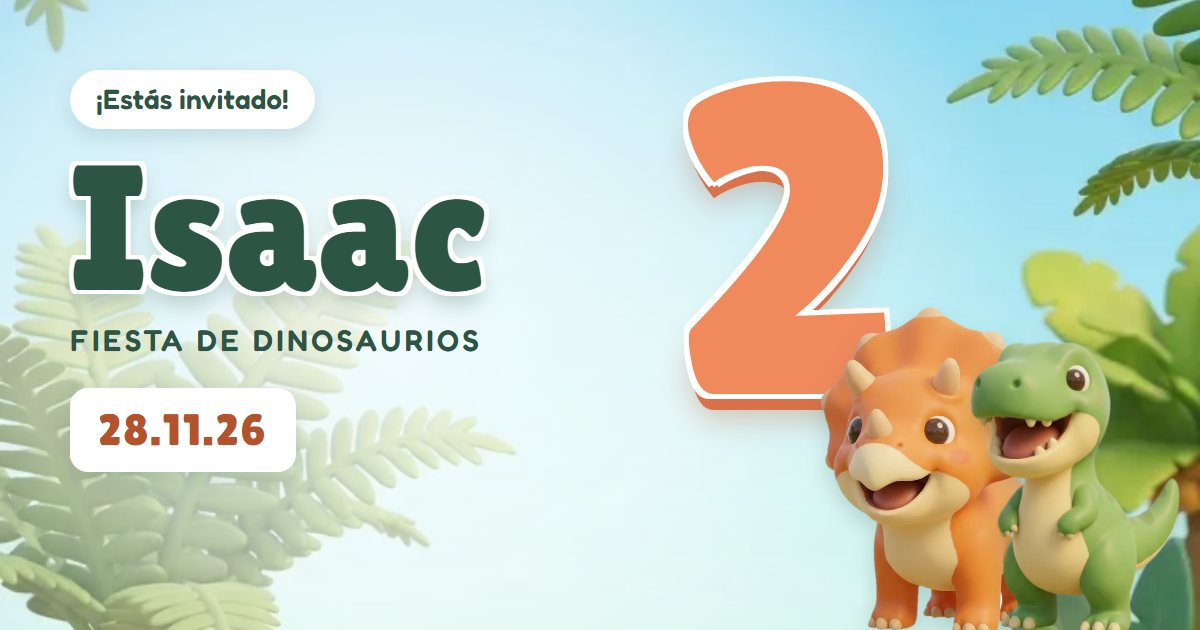
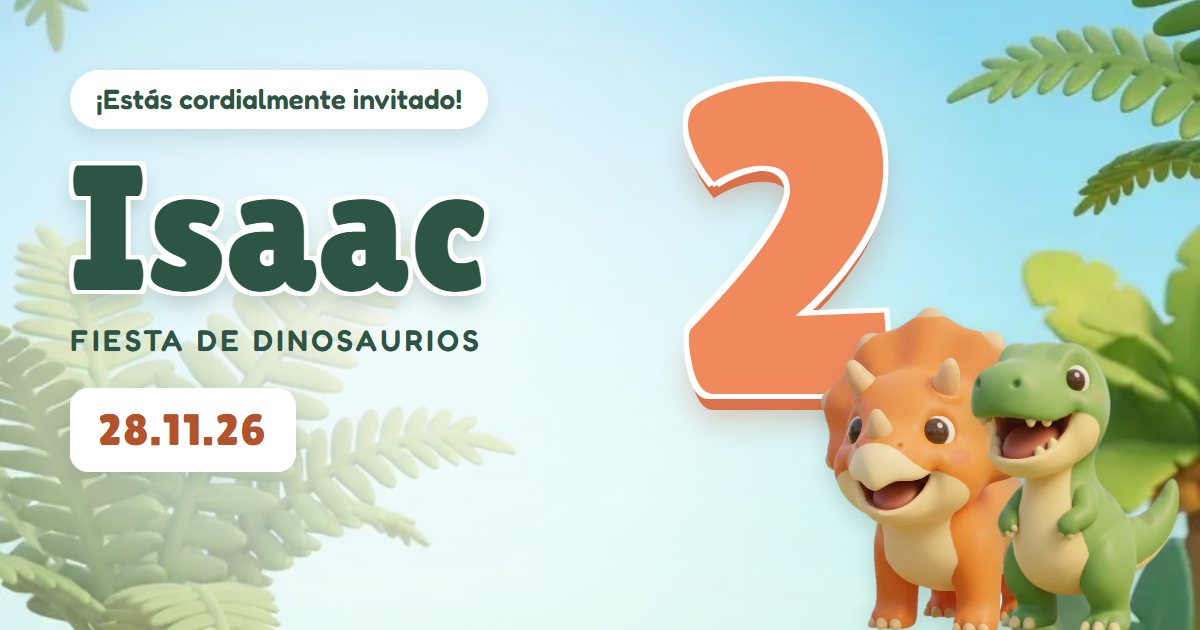
Ajuste al msm que se envia al whatsApp

Changed region(s): [[0.1542, 0.0905, 0.4317, 0.2111]]

diff --git a/index.html b/index.html
@@ -9,13 +9,19 @@
   <meta name="theme-color" content="#CDE9F7">
   <meta property="og:type" content="website">
   <meta property="og:locale" content="es_CO">
-  <meta property="og:title" content="Isaac cumple 2 años · ¡Estás cordialmente invitado!">
-  <meta property="og:description" content="Una fiesta de dinosaurios. Sábado 28 de noviembre de 2026, 5:00 p. m.">
-  <!-- TODO: cuando conozcas el dominio, cambia esta línea por la URL absoluta, p. ej. https://tudominio.com/assets/social.jpg -->
-  <meta property="og:image" content="assets/social.jpg">
+  <meta property="og:title" content="🦖 ¡Isaac cumple 2 años! Estás cordialmente invitado 🎉">
+  <meta property="og:description" content="📅 Sábado 28 de noviembre · 🕔 5:00 p. m. · 🦕 Fiesta de dinosaurios. ¡Te esperamos con mucho cariño! 💚">
+  <meta property="og:url" content="https://isaac-2-years-invitacion.vercel.app/">
+  <meta property="og:image" content="https://isaac-2-years-invitacion.vercel.app/assets/social.jpg">
+  <meta property="og:image:secure_url" content="https://isaac-2-years-invitacion.vercel.app/assets/social.jpg">
+  <meta property="og:image:type" content="image/jpeg">
   <meta property="og:image:width" content="1200">
   <meta property="og:image:height" content="630">
+  <meta property="og:image:alt" content="Isaac cumple 2 años: fiesta de dinosaurios, sábado 28 de noviembre de 2026">
   <meta name="twitter:card" content="summary_large_image">
+  <meta name="twitter:title" content="🦖 ¡Isaac cumple 2 años! Estás cordialmente invitado 🎉">
+  <meta name="twitter:description" content="📅 Sábado 28 de noviembre · 🕔 5:00 p. m. · 🦕 Fiesta de dinosaurios">
+  <meta name="twitter:image" content="https://isaac-2-years-invitacion.vercel.app/assets/social.jpg">
   <link rel="icon" href="assets/img/trex.webp" type="image/webp">
   <link rel="preload" href="assets/img/sobre-cerrado.webp" as="image" fetchpriority="high">
   <link rel="preload" href="vendor/fonts/lilita-one-latin-400-normal.woff2" as="font" type="font/woff2" crossorigin>

diff --git a/social.html b/social.html
@@ -14,7 +14,7 @@ body{margin:0;width:1200px;height:630px;overflow:hidden;position:relative;backgr
 </style><body>
 <img class="bg" src="assets/img/portada.webp" alt="">
 <div class="mist"></div>
-<div class="t"><span class="k">¡Estás invitado!</span><div class="n">Isaac</div><div class="s">Fiesta de dinosaurios</div><div class="d">28.11.26</div></div>
+<div class="t"><span class="k">¡Estás cordialmente invitado!</span><div class="n">Isaac</div><div class="s">Fiesta de dinosaurios</div><div class="d">28.11.26</div></div>
 <div class="two">2</div>
 <img class="z" style="right:150px;width:230px" src="assets/img/triceratops.webp" alt="">
 <img class="z" style="right:20px;width:210px" src="assets/img/trex.webp" alt="">

diff --git a/README.md b/README.md
@@ -130,7 +130,8 @@ Las respuestas se guardan en una hoja de cálculo mediante Google Apps Script. E
 
 1. Sube este repositorio a GitHub (privado).
 2. En [vercel.com](https://vercel.com), **Add New → Project**, elige el repositorio y pulsa **Deploy**. No hace falta ningún ajuste de build.
-3. Con la dirección final (por ejemplo `https://tu-proyecto.vercel.app`), cambia en `index.html` la línea `og:image` por la URL absoluta: `https://tu-proyecto.vercel.app/assets/social.jpg`. Con eso, al compartir el enlace por WhatsApp aparece la tarjeta con la imagen.
+3. **Vista previa al compartir (WhatsApp, etc.):** las etiquetas `og:` de `index.html` ya apuntan a la dirección completa de la imagen (`https://isaac-2-years-invitacion.vercel.app/assets/social.jpg`). Si cambias de dominio, actualiza `og:url`, `og:image`, `og:image:secure_url` y `twitter:image`. La imagen debe ser pública y de menos de 300 KB (`social.jpg` pesa unos 73 KB). Para regenerarla, usa `social.html`.
+   - WhatsApp guarda la vista previa de cada enlace. Si ya compartiste el enlace antes de corregirla, comparte `…vercel.app/?v=2` o vuelve a leerlo en el [Depurador de Facebook](https://developers.facebook.com/tools/debug/) (botón *Scrape Again*).
 4. Haz una confirmación de prueba y borra esa fila de la hoja antes de enviar la invitación.
 
 ---
@@ -179,7 +180,7 @@ Las respuestas se guardan en una hoja de cálculo mediante Google Apps Script. E
 
 - Probada en el navegador de pruebas de escritorio a 360×740, 375×667 y 390×844. **No se ha probado en un iPhone ni en un Android reales**: conviene revisar la música, el gesto de arrastrar para recargar y la fluidez de las animaciones.
 - La política de seguridad (CSP) se probó en un servidor local con las mismas cabeceras; en Vercel debe comprobarse una vez desplegada.
-- Pendiente al publicar: cambiar `og:image` por la URL absoluta y borrar las filas de prueba de la hoja.
+- Pendiente al publicar: borrar las filas de prueba de la hoja y comprobar la vista previa del enlace en WhatsApp.
 
 ## 11. Licencias y créditos
 
